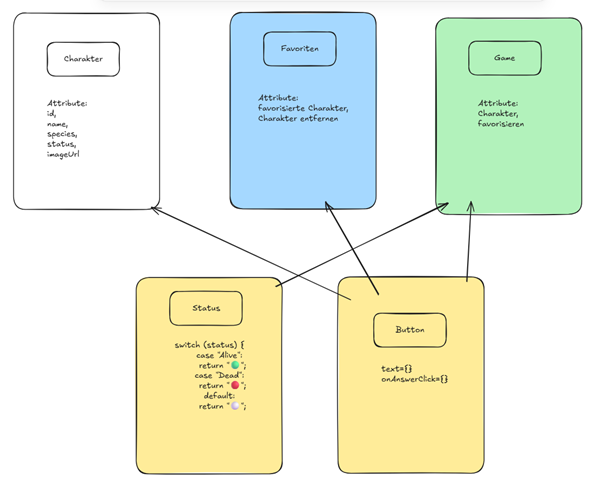
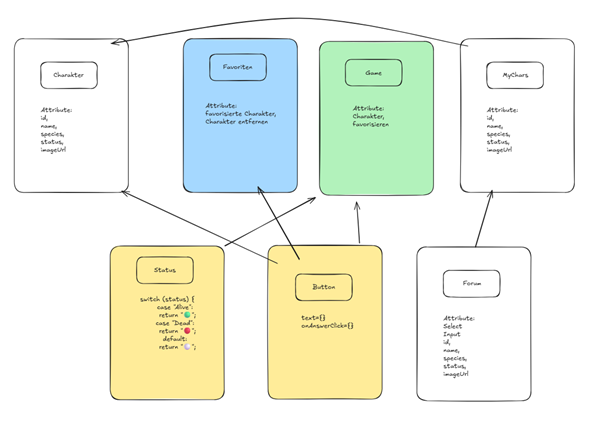
Einfügen der MyChar Seite

diff --git a/rick-morty/src/Pages/Hinzufügen.jsx b/rick-morty/src/Pages/Hinzufügen.jsx
@@ -1,0 +1,145 @@
+import React, { useEffect, useState } from "react";
+import { loadFromLocalStorage, saveToLocalStorage } from "../data/localstorage";
+import plarthalterimg from "../assets/platzhalter.jpg";
+import { Button } from "../components/button";
+import { Status } from "../components/status";
+import { Formular } from "../components/formular";
+
+export const Hinzufügen = () => {
+  const [eigeneChars, setEigeneChars] = useState([]); //Liste eigener Chars
+  const [editsId, setEditID] = useState(null); //ID des Chars der gerade bearbeitet wird
+  const [formData, setFormData] = useState({ name: "", status: "", image: "" }); //Formular
+  // Daten für neue oder bearbeitete Chars verwdener
+
+  //Laden der gespeicherten Chars aus localsstorage
+  useEffect(() => {
+    const chars = loadFromLocalStorage();
+    setEigeneChars(chars);
+  }, []);
+
+  //Funktion um char zu löschen
+  const handleDelete = (char) => {
+    const updatedList = eigeneChars.filter((c) => c.id !== char.id);
+    setEigeneChars(updatedList);
+    saveToLocalStorage(updatedList); //aktualiesierte Liste speichern
+  };
+
+  //Funktion um neuen Char zu erstellen
+  const handleAddchar = () => {
+    if (!formData.name.trim() || !formData.status) return; //validierung ob Formular gültig oder nicht
+
+    const neuerChar = {
+      id: Date.now(), //Einzigartige ID (jetziger Zeitpunkt)
+      name: formData.name,
+      status: formData.status,
+      image: formData.image || plarthalterimg, //Falls kein Bild Platzhalter
+    };
+
+    const updatedList = [neuerChar, ...eigeneChars]; //neuer Char am Anfang der Liste
+    setEigeneChars(updatedList);
+    saveToLocalStorage(updatedList); //in localstorage speichern
+    setFormData({ name: "", status: "", image: "" }); //Formular zurücksetzten
+  };
+
+  //Funktion um Chars zu editiern
+  const startEdit = (char) => {
+    setEditID(char.id); //Id vom zu bearbeitenden Char
+    setFormData({
+      name: char.name,
+      status: char.status,
+      image: char.image,
+    });
+  };
+
+  //Funktion spiechert bearbeiteten Char
+  const handleSave = (id) => {
+    const updatedList = eigeneChars.map((char) => {
+      return char.id === id ? { ...char, ...formData } : char;
+    });
+    setEigeneChars(updatedList);
+    saveToLocalStorage(updatedList); //Änderung speichern
+    setEditID(null); //bearbeitung beenden
+  };
+
+  //Formularänderungen aktualiseiren
+  const handleChange = (e) => {
+    const { name, value } = e.target;
+    setFormData((prev) => ({ ...prev, [name]: value }));
+  };
+
+  return (
+    <div className="char-wrapper">
+      <h2 className="char-title">Deine erstellten Charaktere:</h2>
+      <Formular
+        formData={formData}
+        handleChange={handleChange}
+        handleAddchar={handleAddchar}
+      />
+      <div className="char-grid">
+        {eigeneChars.map((char) => (
+          <div className="card" key={char.id}>
+            <img
+              className="card-img"
+              src={char.image || plarthalterimg}
+              alt={char.name}
+            />
+            <div className="card-content">
+              {editsId === char.id ? ( //Logik um das Formular abzuspeichern
+                <>
+                  <input
+                    name="name"
+                    value={formData.name}
+                    onChange={handleChange}
+                  />
+                  <select
+                    name="status"
+                    value={formData.status}
+                    onChange={handleChange}
+                  >
+                    <option value="Alive">Lebendig</option>
+                    <option value="Dead">Tot</option>
+                    <option value="Unknown">Unbekannt</option>
+                  </select>
+                  <input
+                    name="image"
+                    value={formData.image}
+                    onChange={handleChange}
+                    placeholder={plarthalterimg}
+                  />
+                </>
+              ) : (
+                <>
+                  <h3 className="card-title">{char.name}</h3>
+                  <p>
+                    Status: <Status status={char.status} />
+                  </p>
+                </>
+              )}
+            </div>
+            {editsId === char.id ? (
+              <Button
+                text="Speichern"
+                onAnswerClick={() => {
+                  handleSave(char.id);
+                }}
+              />
+            ) : (
+              <Button
+                text="Bearbeiten"
+                onAnswerClick={() => {
+                  startEdit(char);
+                }}
+              />
+            )}
+            <Button
+              text="Löschen"
+              onAnswerClick={() => {
+                handleDelete(char);
+              }}
+            />
+          </div>
+        ))}
+      </div>
+    </div>
+  );
+};

diff --git a/rick-morty/src/Pages/Charaktere.jsx b/rick-morty/src/Pages/Charaktere.jsx
@@ -2,10 +2,13 @@ import React, { useEffect, useState } from "react";
 import { fetchCharacters } from "../data/api";
 import { Button } from "../components/button";
 import { Status } from "../components/status";
+import { loadFromLocalStorage } from "../data/localstorage";
+import platzhalter from "../assets/platzhalter.jpg";
 
 export const Charaktere = () => {
   //Zustände
-  const [chars, setChars] = useState([]);
+  const [chars, setChars] = useState([]); //State für Chars aus der API
+  const [eigeneChars, setEigeneChars] = useState([]); //State für eigene Chars
   const [loading, setLoading] = useState(true);
   const [error, setError] = useState(null);
   const [page, setPage] = useState(1);
@@ -31,6 +34,15 @@ export const Charaktere = () => {
     //useEffect wird ausgelöst wenn Page sich ändert
   }, [page]);
 
+  //Eigene Chars aus dem localstorage holen
+  useEffect(() => {
+    const charsFromStorage = loadFromLocalStorage();
+    setEigeneChars(charsFromStorage || []); //leere Liste falls nichts gespichert
+  }, []);
+
+  //Kombination aus eigenen und API chars zum zusammen anzeigen
+  const alleChars = [...eigeneChars, ...chars];
+
   return (
     <div className="char-wrapper">
       <h2 className="char-title">Rick & Morty Charaktere</h2>
@@ -41,20 +53,29 @@ export const Charaktere = () => {
       {!error &&
         !loading && ( //classNames durch ChatGPT erledigt um CSS zu stylen
           <div className="card-grid">
-            {chars.map((char) => (
+            {alleChars.map((char) => (
               <div className="card" key={char.id}>
-                <img className="card-img" src={char.image} alt={char.name} />
+                <img
+                  className="card-img"
+                  src={char.image || char.img || platzhalter} //Bild von API local oder Platzhalter
+                  alt={char.name}
+                />
                 <div className="card-content">
                   <h3 className="card-title">{char.name}</h3>
                   <p>
                     Status:
                     <Status status={char.status} />
                   </p>
-                  <p>
-                    Art: {char.species} {char.type && `(${char.type})`}
-                  </p>
-                  <p>Geschlecht: {char.gender}</p>
-                  <p>Herkunft: {char.origin.name}</p>
+                  {/*Nur API Chars eigene haben diese Atribute nicht*/}
+                  {char.species && (
+                    <>
+                      <p>
+                        Art: {char.species} {char.type && `(${char.type})`}
+                      </p>
+                      <p>Geschlecht: {char.gender}</p>
+                      <p>Herkunft: {char.origin.name}</p>
+                    </>
+                  )}
                 </div>
               </div>
             ))}

diff --git a/rick-morty/src/components/formular.jsx b/rick-morty/src/components/formular.jsx
@@ -1,0 +1,33 @@
+import React from "react";
+import placeholder from "../assets/platzhalter.jpg";
+import { Button } from "./button";
+
+//Zeigt das Formular an sich an
+export const Formular = ({ formData, handleChange, handleAddchar }) => {
+  return (
+    <div className="form">
+      <h3>Neuen Charakter erstellen</h3>
+      <input
+        name="name"
+        placeholder="Name"
+        value={formData.name}
+        onChange={handleChange}
+      />
+
+      <select name="status" value={formData.status} onChange={handleChange}>
+        <option value="">-- Status wählen --</option>
+        <option value="Alive">Lebendig</option>
+        <option value="Dead">Tot</option>
+        <option value="Unknown">Unbekannt</option>
+      </select>
+
+      <input
+        name="image"
+        placeholder={placeholder}
+        value={formData.image}
+        onChange={handleChange}
+      />
+      <Button text="Hinzufügen" onAnswerClick={handleAddchar} />
+    </div>
+  );
+};

diff --git a/rick-morty/src/data/localstorage.js b/rick-morty/src/data/localstorage.js
@@ -1,4 +1,5 @@
 const FAVORITES_KEY = "favoriteChar"; //Schlüssel für Favoriten
+const STORAGE_KEY = "myChars"; //Schlüssel für eigene Cahraktere
 
 // Favoriten speichern
 export const saveFavoriteChar = (favorites) => {
@@ -47,4 +48,14 @@ export const deleteFavoriteChar = (charId) => {
     console.error("Fehler beim Löschen:", error);
     return loadFavoriteChar(); // Bei Fehler ursprüngliche Liste zurückgeben
   }
+};
+
+//Eigene Charaktere hinzufügen
+export const saveToLocalStorage = (data) => {
+  localStorage.setItem(STORAGE_KEY, JSON.stringify(data));
+};
+
+export const loadFromLocalStorage = () => {
+  const data = localStorage.getItem(STORAGE_KEY);
+  return data ? JSON.parse(data) : [];
 };

diff --git a/rick-morty/src/App.jsx b/rick-morty/src/App.jsx
@@ -7,6 +7,7 @@ import { Game } from "./Pages/Game";
 import { Favoriten } from "./Pages/Favoriten";
 import { Impressum } from "./Pages/Impressum";
 import { PageNotFound } from "./Pages/PageNotFound";
+import { Hinzufügen } from "./Pages/Hinzufügen";
 
 function App() {
   return (
@@ -16,6 +17,7 @@ function App() {
         <Route path="/chars" element={<Charaktere />} />
         <Route path="/game" element={<Game />} />
         <Route path="/favors" element={<Favoriten />} />
+        <Route path="/add" element={<Hinzufügen />} />
         <Route path="/impressum" element={<Impressum />} />
         <Route path="/*" element={<PageNotFound />} />
       </Route>

diff --git a/rick-morty/src/components/navigation.jsx b/rick-morty/src/components/navigation.jsx
@@ -7,6 +7,7 @@ export const Navigation = () => {
       <Link to="/chars">Charaktere</Link>
       <Link to="/game">Game</Link>
       <Link to="/favors">Favoriten</Link>
+      <Link to="/add">My Characters</Link>
       <Link to="/impressum">Impressum</Link>
     </nav>
   );
